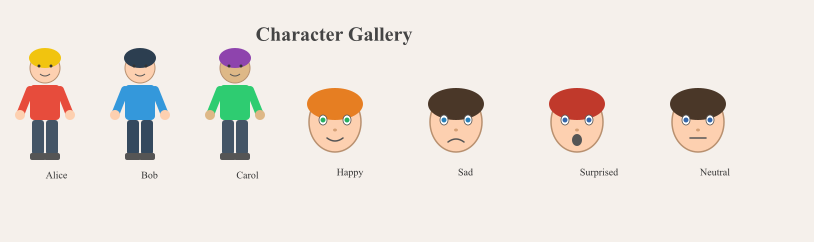
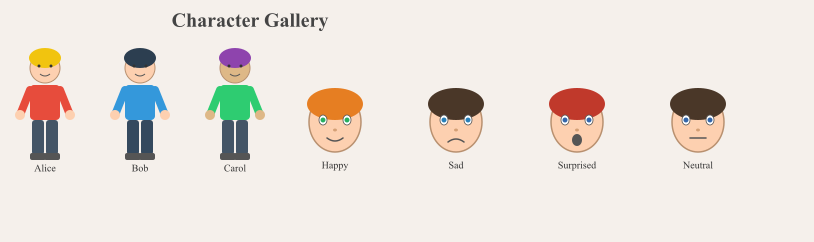
Fix text centering for explicit x/y positions
Text with explicit x/y and align="center" was getting double-
offset: the user-specified x was treated as bounding-box left
edge, then shifted right by half the text width. But SVG
text-anchor="middle" already centers on the x point.

Now: explicit x/y = direct SVG anchor point (no adjustment).
Layout-computed positions = bounding-box conversion (add offset).

Fixes character pattern labels (Alice, Bob, etc.) being off-center.

diff --git a/render/svg.go b/render/svg.go
@@ -246,16 +246,21 @@ func renderText(sb *strings.Builder, el *scene.Element, s *scene.Scene, indent s
 	// SVG text x/y is the anchor/baseline point.
 	x, y := el.EffectiveX(), el.EffectiveY()
 
-	// Adjust x for text-anchor
-	switch anchor {
-	case "middle":
-		x += el.ComputedWidth / 2
-	case "end":
-		x += el.ComputedWidth
+	// Only adjust for text-anchor when the position was computed by layout
+	// (not explicit). Explicit x means the user chose the anchor point.
+	if el.X == nil {
+		switch anchor {
+		case "middle":
+			x += el.ComputedWidth / 2
+		case "end":
+			x += el.ComputedWidth
+		}
 	}
 
 	// Adjust y: dominant-baseline="central" means y is the vertical center
-	y += el.ComputedHeight / 2
+	if el.Y == nil {
+		y += el.ComputedHeight / 2
+	}
 
 	sb.WriteString(indent)
 	fmt.Fprintf(sb, `<text x="%s" y="%s" font-size="%s"`, ff(x), ff(y), ff(fontSize))
